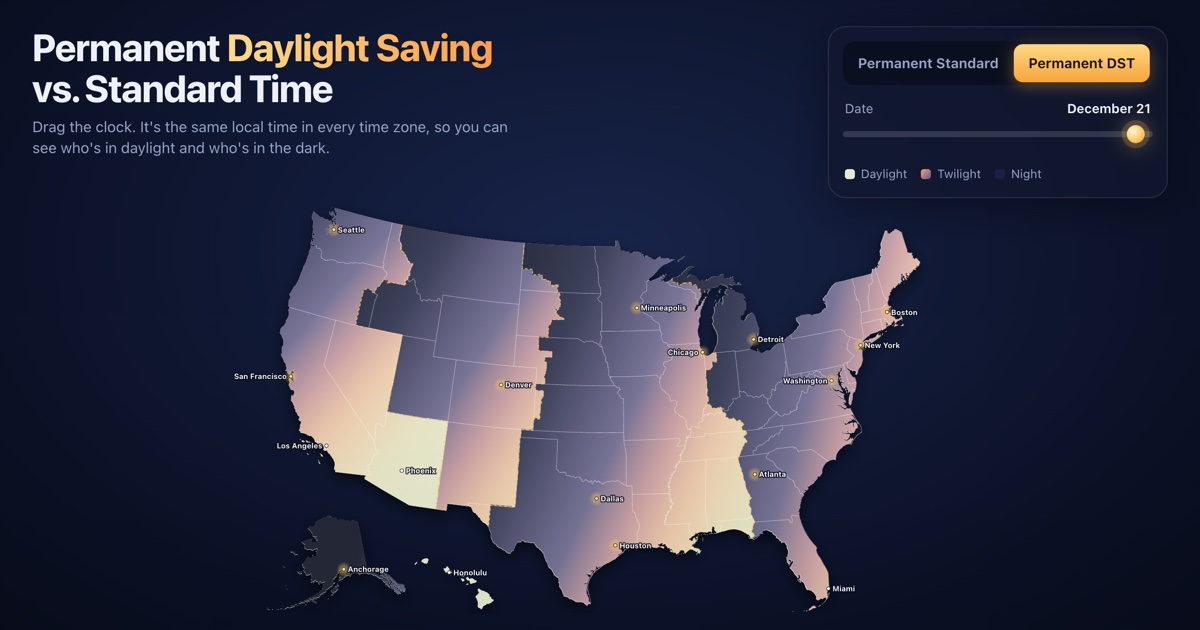
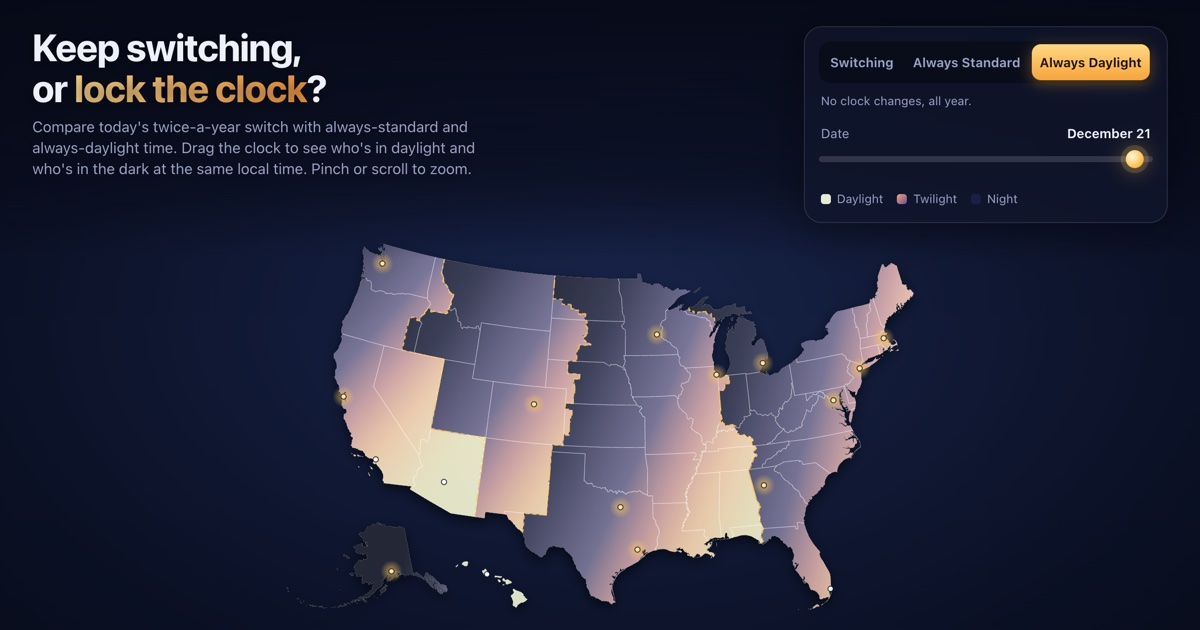
Rename modes to Switching / Always Standard / Always Daylight; three-way copy and share image

Changed region(s): [[0.185, 0.3317, 0.7708, 0.9651], [0.0308, 0.0, 0.9558, 0.3317]]

diff --git a/index.html b/index.html
@@ -3,8 +3,8 @@
 <head>
 <meta charset="utf-8">
 <meta name="viewport" content="width=device-width,initial-scale=1">
-<title>Permanent DST vs. Standard Time: Interactive Sunlight Map</title>
-<meta name="description" content="Drag a 24-hour clock and see where it's light or dark across the U.S. under permanent Daylight Saving Time vs. permanent Standard Time, for any day of the year.">
+<title>DST Map: Switching Clocks vs. Always Standard vs. Always Daylight</title>
+<meta name="description" content="Drag a 24-hour clock and see where it's light or dark across the U.S. under today's twice-a-year clock switch, permanent Standard Time, or permanent Daylight Saving Time, on any day of the year.">
 <link rel="canonical" href="https://dstmap.us/">
 <meta name="theme-color" content="#0b1126">
 <meta name="color-scheme" content="dark">
@@ -13,19 +13,19 @@
 <meta property="og:type" content="website">
 <meta property="og:site_name" content="DST Map">
 <meta property="og:url" content="https://dstmap.us/">
-<meta property="og:title" content="Permanent DST vs. Standard Time: see who wakes up in the dark">
-<meta property="og:description" content="Same clock time, every time zone. Drag the clock to compare sunlight across the U.S. under each proposal.">
+<meta property="og:title" content="Keep switching the clocks, or lock them? See who wakes up in the dark.">
+<meta property="og:description" content="Compare today's twice-a-year switch with permanent Standard Time and permanent Daylight Saving Time, at the same clock time in every U.S. time zone.">
 <meta property="og:image" content="https://dstmap.us/og.jpg">
 <meta property="og:image:type" content="image/jpeg">
 <meta property="og:image:width" content="1200">
 <meta property="og:image:height" content="630">
 <meta property="og:image:alt" content="U.S. map at 8:00 AM on December 21 under permanent DST: Michigan, Indiana and western parts of each time zone are still dark.">
 <meta name="twitter:card" content="summary_large_image">
-<meta name="twitter:title" content="Permanent DST vs. Standard Time: see who wakes up in the dark">
-<meta name="twitter:description" content="Same clock time, every time zone. Drag the clock to compare sunlight across the U.S.">
+<meta name="twitter:title" content="Keep switching the clocks, or lock them? See who wakes up in the dark.">
+<meta name="twitter:description" content="Compare today's clock switch with permanent Standard Time and permanent Daylight Saving Time across the U.S.">
 <meta name="twitter:image" content="https://dstmap.us/og.jpg">
 <meta name="twitter:image:alt" content="U.S. map at 8:00 AM on December 21 under permanent DST: Michigan, Indiana and western parts of each time zone are still dark.">
-<script type="application/ld+json">{"@context":"https://schema.org","@type":"WebApplication","name":"Permanent DST vs. Standard Time: Interactive Sunlight Map","url":"https://dstmap.us/","applicationCategory":"EducationalApplication","operatingSystem":"Any","offers":{"@type":"Offer","price":"0","priceCurrency":"USD"},"author":{"@type":"Person","name":"Michael Neeley","url":"https://redreceipt.github.io/"}}</script>
+<script type="application/ld+json">{"@context":"https://schema.org","@type":"WebApplication","name":"DST Map: Switching Clocks vs. Always Standard vs. Always Daylight","url":"https://dstmap.us/","applicationCategory":"EducationalApplication","operatingSystem":"Any","offers":{"@type":"Offer","price":"0","priceCurrency":"USD"},"author":{"@type":"Person","name":"Michael Neeley","url":"https://redreceipt.github.io/"}}</script>
 <style>
   :root { --panel: rgba(17, 23, 46, .66); --line: rgba(255,255,255,.11); --text: #eef1fb; --muted: #97a2c4; --sun: #ffc65c; --scrim: 6, 9, 22; }
   * { box-sizing: border-box; }
@@ -47,12 +47,11 @@
   h1 em { font-style: normal; background: linear-gradient(90deg, #ffd98a, #ff9f43); -webkit-background-clip: text; background-clip: text; color: transparent; }
   header > div:first-child { flex: 1 1 320px; }
   .sub { margin: 8px 0 0; color: var(--muted); max-width: 480px; text-shadow: 0 1px 10px rgba(0,0,0,.6); }
-  .card { width: 340px; max-width: 100%; padding: 14px; border-radius: 18px; background: var(--panel); border: 1px solid var(--line);
+  .card { width: 364px; max-width: 100%; padding: 14px; border-radius: 18px; background: var(--panel); border: 1px solid var(--line);
     backdrop-filter: blur(16px); -webkit-backdrop-filter: blur(16px); box-shadow: 0 10px 40px rgba(0,0,0,.35); }
   .seg { display: flex; gap: 3px; padding: 3px; border-radius: 12px; background: rgba(0,0,0,.32); }
-  .seg button { flex: 1; display: grid; gap: 1px; white-space: nowrap; padding: 7px 6px; border: 0; border-radius: 9px; background: none; color: var(--muted);
-    font: inherit; font-size: 14px; font-weight: 650; cursor: pointer; transition: .2s; }
-  .seg button small { font-size: 11px; font-weight: 550; opacity: .75; }
+  .seg button { flex: 1 auto; white-space: nowrap; padding: 9px 6px; border: 0; border-radius: 9px; background: none; color: var(--muted);
+    font: inherit; font-size: 13px; font-weight: 650; cursor: pointer; transition: .2s; }
   .seg button:hover { color: var(--text); }
   .note { margin: 10px 2px 0; font-size: 12px; color: var(--muted); }
   .note b { color: var(--text); font-weight: 650; }
@@ -107,7 +106,7 @@
   @media (max-width: 720px) {
     header { padding: 16px 16px 28px; } footer { padding: 28px 12px 12px; }
     .card { width: 100%; }
-    .seg button { font-size: 13px; padding: 6px 4px; }
+    .seg button { padding: 8px 4px; }
     .dock { grid-template-columns: auto 1fr; gap: 10px 14px; padding: 12px 14px; }
     .dock .slider { grid-column: 1 / -1; }
     #reset { right: 12px; }
@@ -115,7 +114,7 @@
   #stage:not(.labels) .city text { display: none; }
   @media (max-height: 560px) {
     header { padding-top: 10px; padding-bottom: 12px; } h1 { font-size: 20px; } .sub, .legend, .credit { display: none; }
-    .card { width: 300px; padding: 8px 10px; } .seg button { padding: 4px; } .seg small, .note { display: none; } .row { margin-top: 6px; }
+    .card { width: 340px; padding: 8px 10px; } .seg button { padding: 6px 4px; } .note { display: none; } .row { margin-top: 6px; }
     footer { padding-top: 16px; padding-bottom: 8px; } .dock { padding: 6px 14px; gap: 12px; } #clock { font-size: 24px; } #play { width: 38px; height: 38px; }
   }
 </style>
@@ -123,14 +122,14 @@
 <body>
 <header>
   <div>
-    <h1>Permanent <em>Daylight Saving</em><br>vs. Standard Time</h1>
-    <p class="sub">Drag the clock. It's the same local time in every time zone, so you can see who's in daylight and who's in the dark. Pinch or scroll to zoom.</p>
+    <h1>Keep switching,<br>or <em>lock the clock</em>?</h1>
+    <p class="sub">Compare today's twice-a-year switch with always-standard and always-daylight time. Drag the clock to see who's in daylight and who's in the dark at the same local time. Pinch or scroll to zoom.</p>
   </div>
   <div class="card">
     <div class="seg" role="group" aria-label="Clock policy">
-      <button data-mode="now">Today<small>switch twice a year</small></button>
-      <button data-mode="std">Standard<small>permanent</small></button>
-      <button data-mode="dst">Daylight<small>permanent</small></button>
+      <button data-mode="now">Switching</button>
+      <button data-mode="std">Always Standard</button>
+      <button data-mode="dst">Always Daylight</button>
     </div>
     <p class="note" id="note"></p>
     <label class="row" for="date"><span>Date</span><output id="dateOut"></output></label>

diff --git a/README.md b/README.md
@@ -1,4 +1,4 @@
-# Permanent DST vs. Standard Time
+# DST Map: keep switching, or lock the clock?
 
 Interactive map of U.S. sunlight at the same local clock time in every time zone. Drag the clock, pick a date, and compare today's twice-a-year switch with permanent Standard Time or permanent Daylight Saving Time.
 
